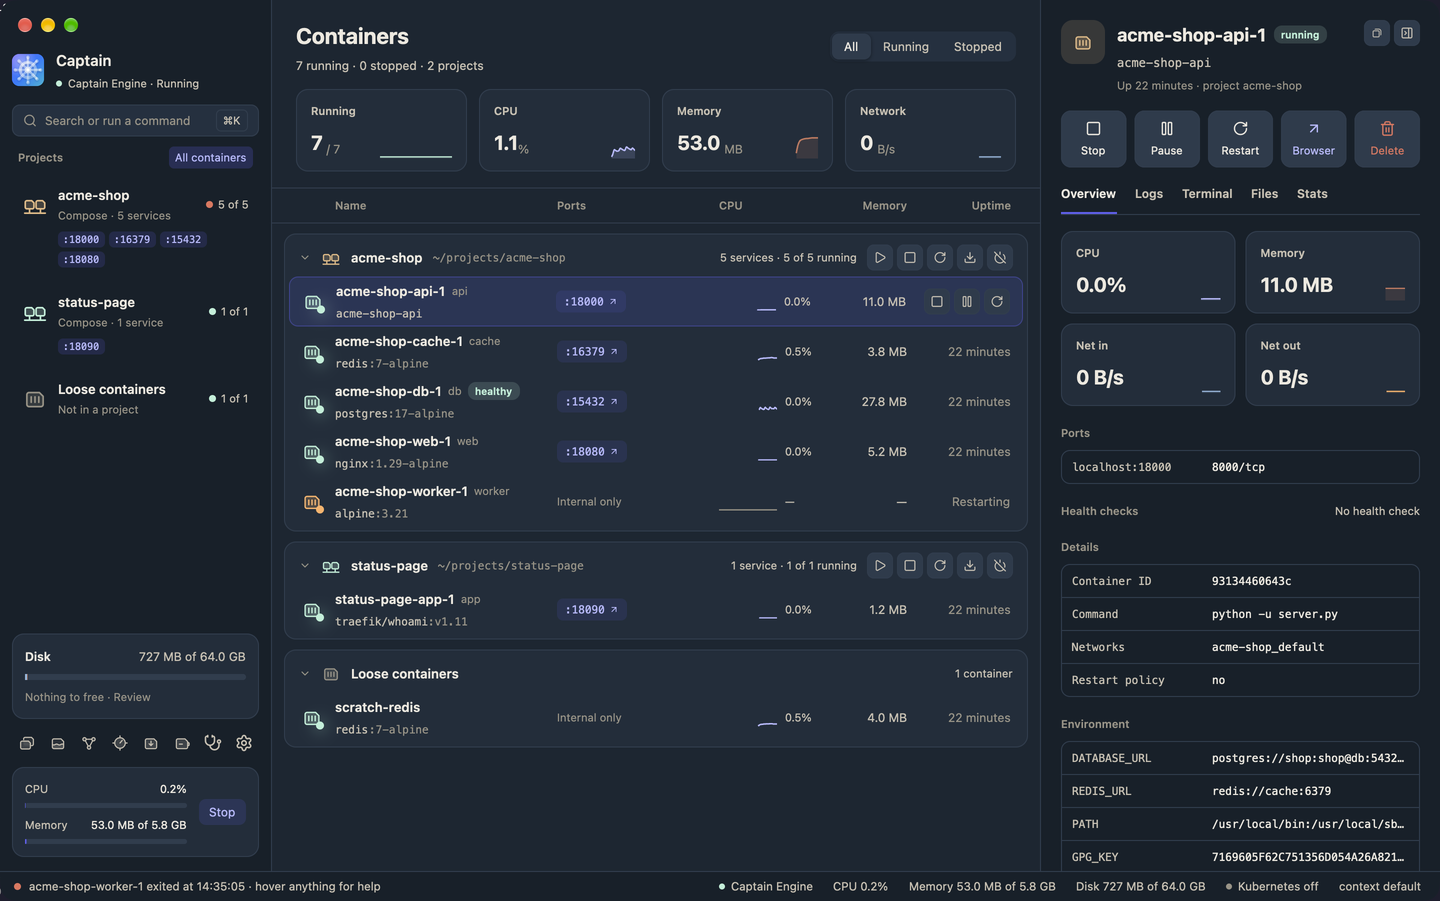
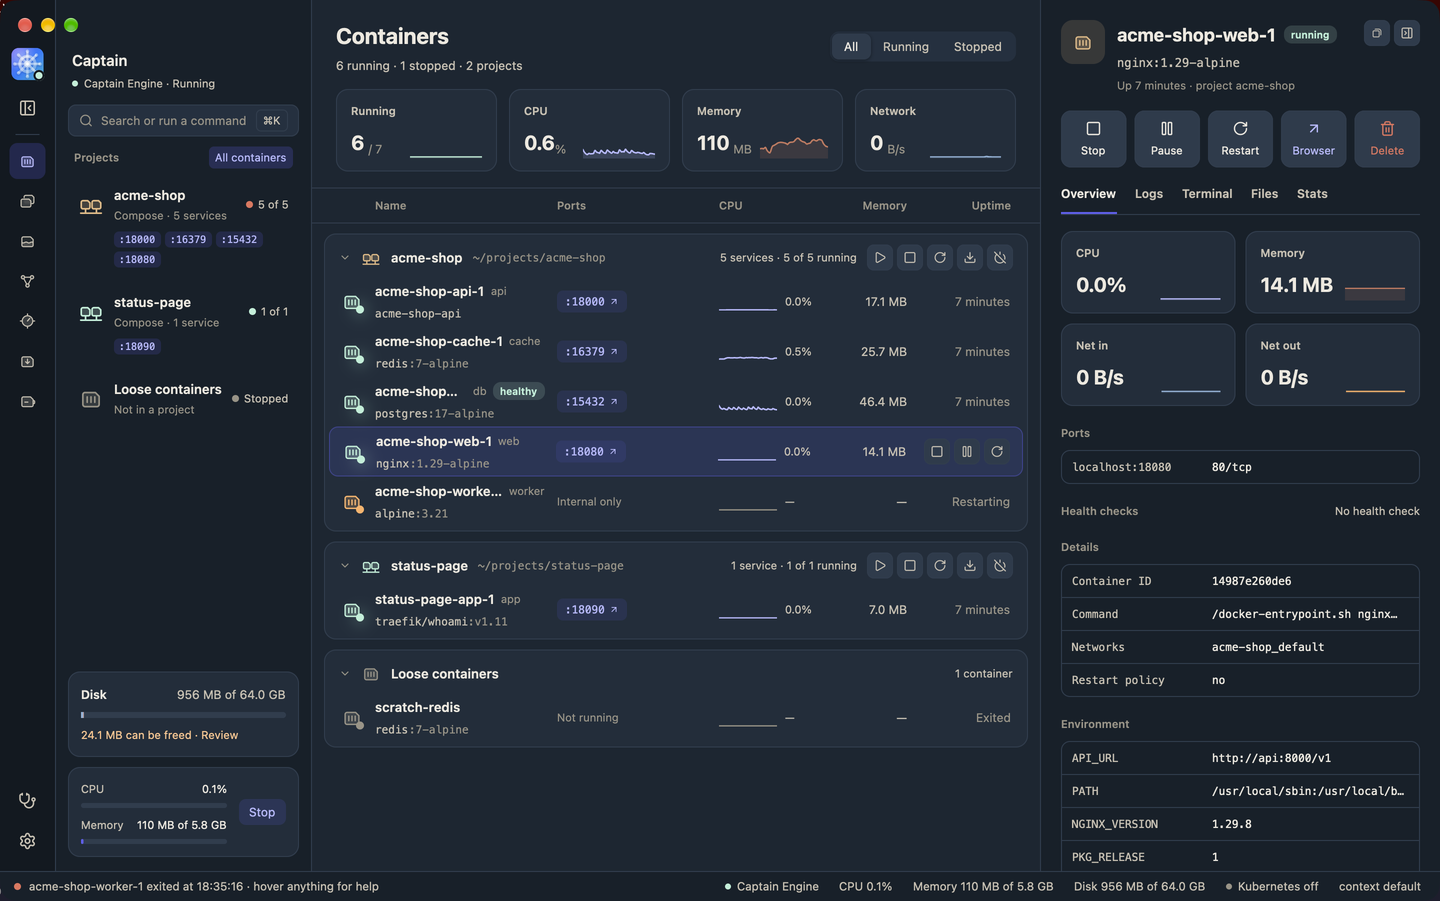
Rail polish: page padding beside the rail alone, a 256 px list, resource steppers that wrap with Grow beside the disk, and the Containers screenshot with the rail

diff --git a/crates/captain-ui/src/settings/engine_resources.rs b/crates/captain-ui/src/settings/engine_resources.rs
@@ -49,7 +49,14 @@ pub fn rows(
             ))
             .help(help)
     };
-    let steppers = sub_row("Resources", palette)
+    // The steppers wrap to a second line in a narrow window, and Grow stays beside
+    // the disk stepper it belongs to.
+    let controls = div()
+        .flex()
+        .flex_wrap()
+        .items_center()
+        .gap(px(12.))
+        .min_w_0()
         .child(step(
             "CPUs",
             "engine-cpus",
@@ -64,8 +71,15 @@ pub fn rows(
             bytes_label(resources.memory_bytes),
             |r, delta, machine| r.step_memory(i64::from(delta), machine.memory_bytes),
         ))
-        .child(disk(view.disk_pending, model, resources, palette, cx))
-        .children(view.disk_pending.map(|disk| grow_button(model, disk, palette, cx)));
+        .child(
+            div()
+                .flex()
+                .items_center()
+                .gap(px(8.))
+                .child(disk(view.disk_pending, model, resources, palette, cx))
+                .children(view.disk_pending.map(|disk| grow_button(model, disk, palette, cx))),
+        );
+    let steppers = sub_row("Resources", palette).child(controls);
     [
         steppers,
         under_note(note(host.machine(), view.free_disk), palette),

diff --git a/crates/captain-ui/src/shell/app_shell.rs b/crates/captain-ui/src/shell/app_shell.rs
@@ -278,7 +278,12 @@ impl Render for AppShell {
                             &palette,
                         ))
                     })
-                    .child(self.page(workspace.page(), details, &palette)),
+                    // The traffic lights are wider than the rail, so a page beside the
+                    // rail alone keeps its title clear of them.
+                    .child(
+                        self.page(workspace.page(), details, &palette)
+                            .when(workspace.sidebar_hidden(), |page| page.pl(px(16.))),
+                    ),
             )
             .child(self.status_bar.clone())
             .children(self.palette.clone().map(|command_palette| {

diff --git a/crates/captain-ui/src/shell/sidebar/mod.rs b/crates/captain-ui/src/shell/sidebar/mod.rs
@@ -28,7 +28,7 @@ pub fn render(
     palette: &Palette,
 ) -> impl IntoElement {
     div()
-        .w(px(272.))
+        .w(px(256.))
         .h_full()
         .flex_shrink_0()
         .flex()
